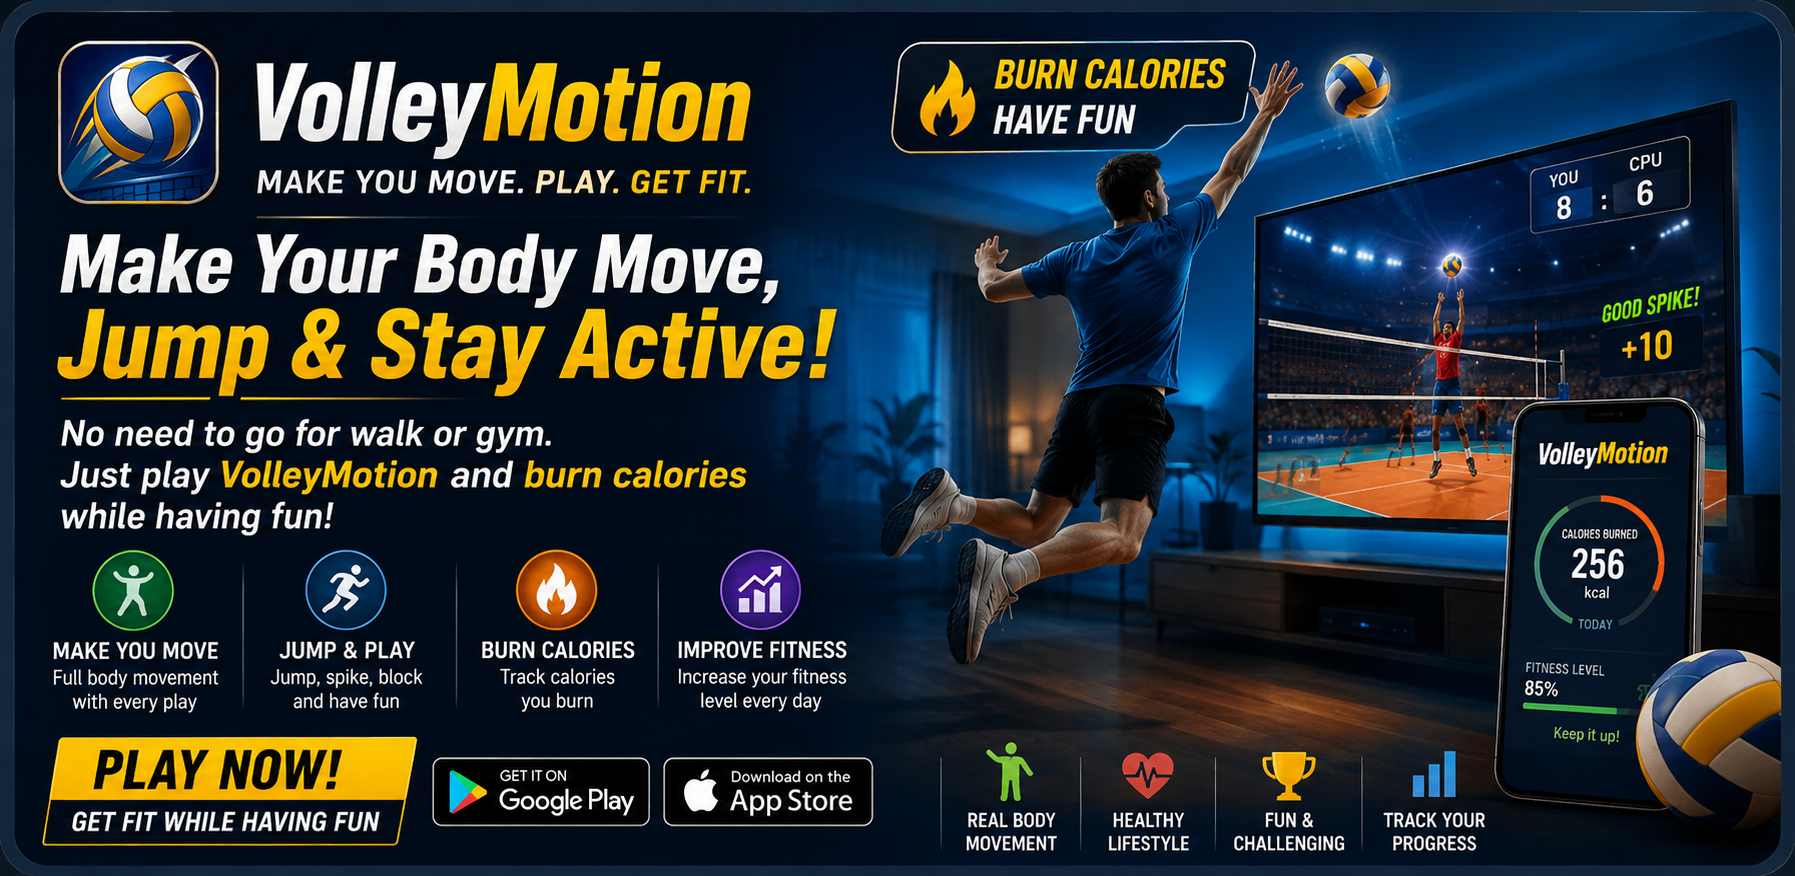
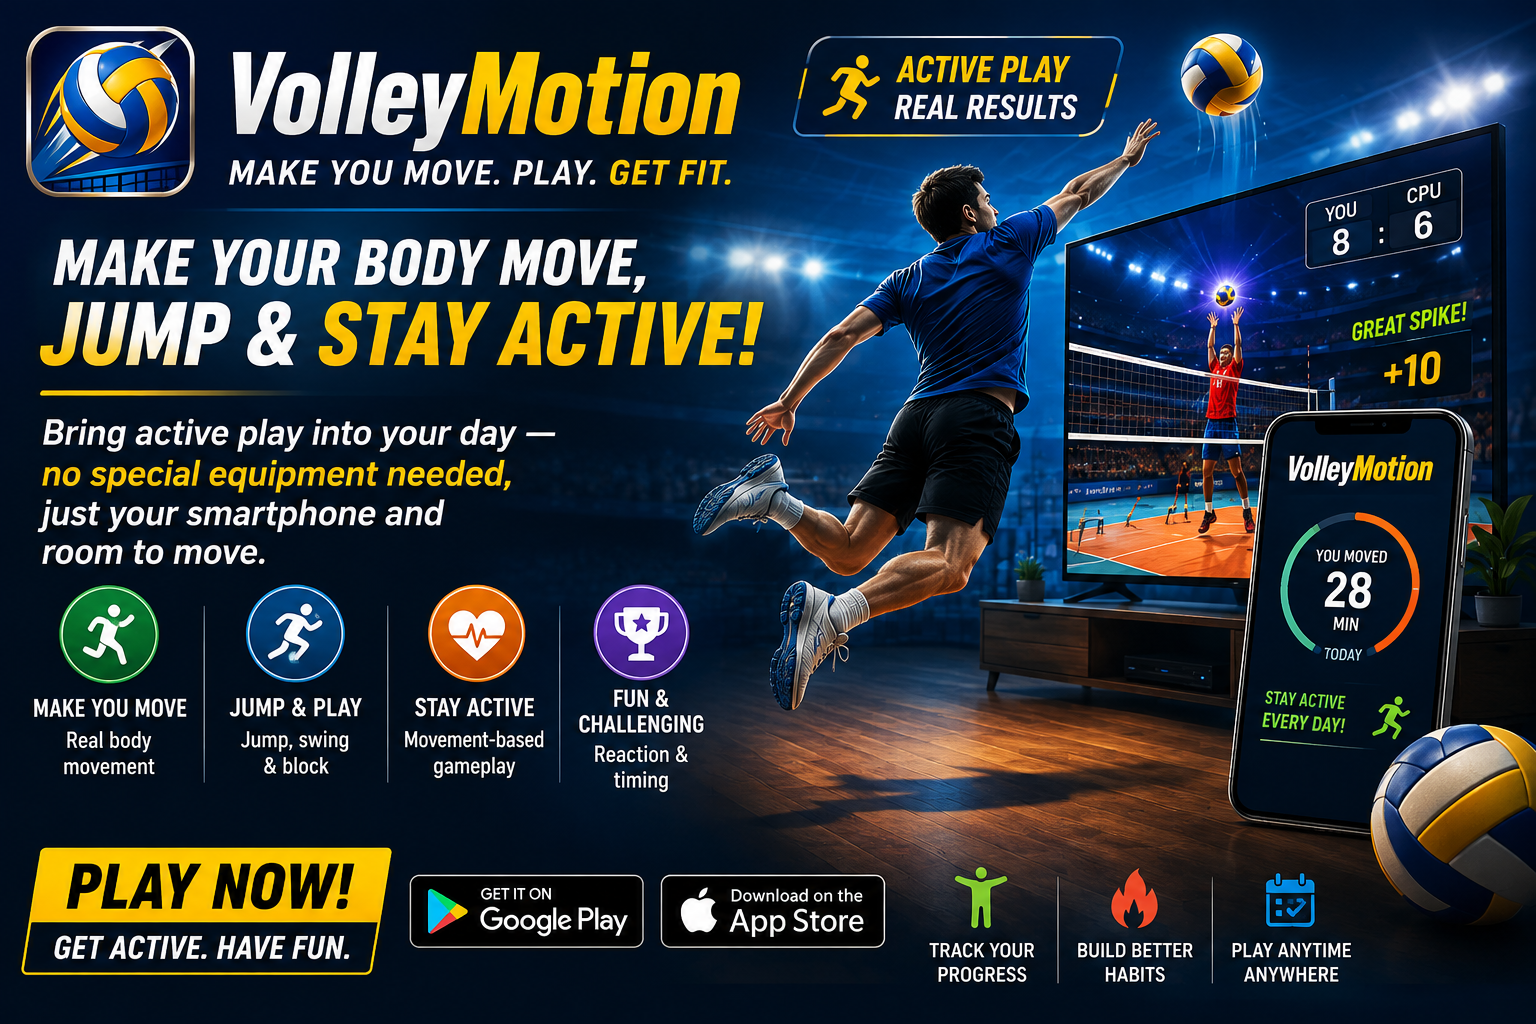
Add files via upload

diff --git a/index.html b/index.html
@@ -14,7 +14,7 @@
 
   <meta property="og:type" content="website">
   <meta property="og:title" content="VolleyMotion - Interactive Volleyball Motion Game">
-  <meta property="og:description" content="Swing, jump and block using real movement and your phone camera.">
+  <meta property="og:description" content="Bring active play into your day with real movement, jumping, swinging and blocking using your smartphone camera.">
   <meta property="og:url" content="https://rightfreelancer7.github.io/volleymotion/">
   <meta property="og:image" content="https://rightfreelancer7.github.io/volleymotion/volleymotion_active_feature.png">
   <meta property="og:site_name" content="VolleyMotion">
@@ -126,8 +126,9 @@
       <div class="tag">INTERACTIVE VOLLEYBALL FITNESS &amp; MOVEMENT GAME</div>
       <h1>Move.<br>Jump.<br><span class="accent">Stay Active.</span></h1>
       <p class="lead">
-        <strong>VolleyMotion</strong> is an interactive volleyball game that combines mobile gameplay with real movement.
-        Use your phone camera, follow visual and voice cues, swing your arm to hit, jump for high balls and raise both hands to block.
+        <strong>VolleyMotion</strong> brings active play into your day — no special equipment needed,
+        just your smartphone and room to move. Use your phone camera, follow visual and voice cues,
+        swing your arm to hit, jump for high balls and raise both hands to block.
       </p>
       <p class="lead">
         It is designed for people searching for a <strong>volleyball game</strong>, <strong>interactive volleyball app</strong>,
@@ -155,7 +156,7 @@
       </div>
       <a class="youtube" href="https://youtube.com/shorts/3Ug2-MJWi7o?si=rv38Kv5SvNKEaK70" target="_blank" rel="noopener">▶ Watch VolleyMotion on YouTube</a>
     </div>
-    <div class="visual"><img src="volleymotion_active_feature.png" alt="VolleyMotion active movement volleyball game with jumping, swinging and blocking"></div>
+    <div class="visual"><img src="volleymotion_active_feature.png" alt="VolleyMotion active movement volleyball game using a smartphone with jumping, swinging and blocking"></div>
   </div>
 
   <section>
